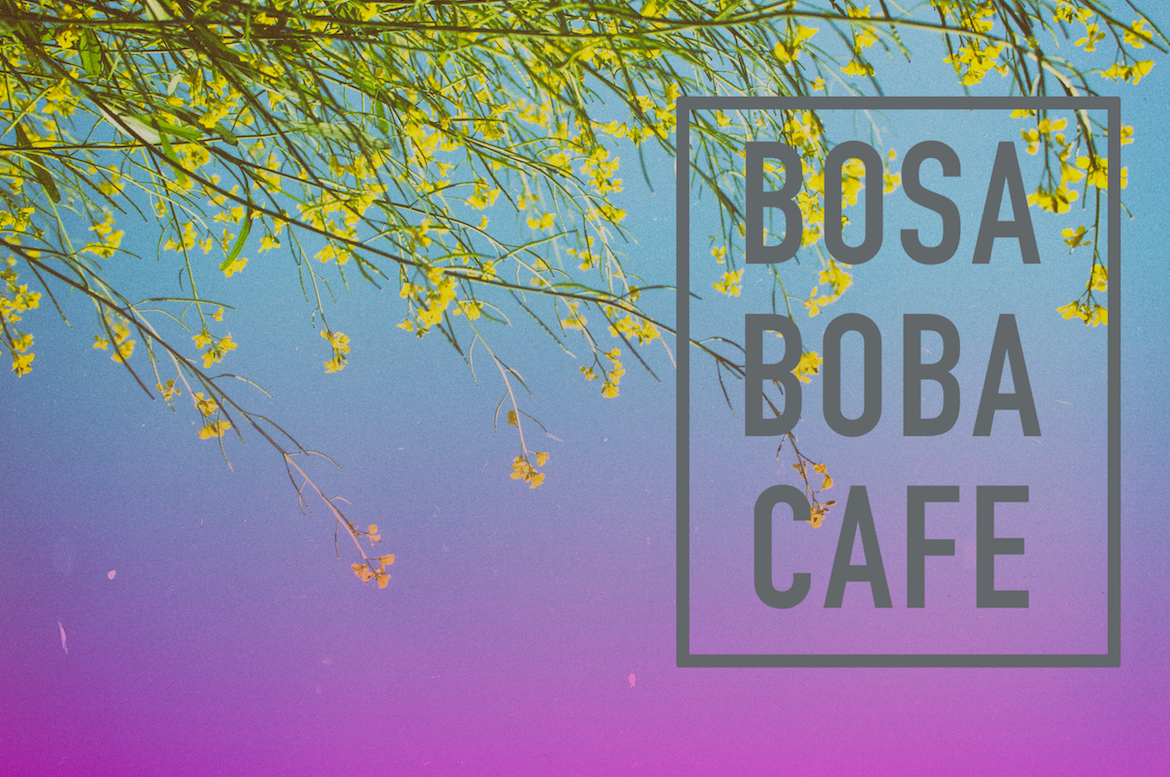
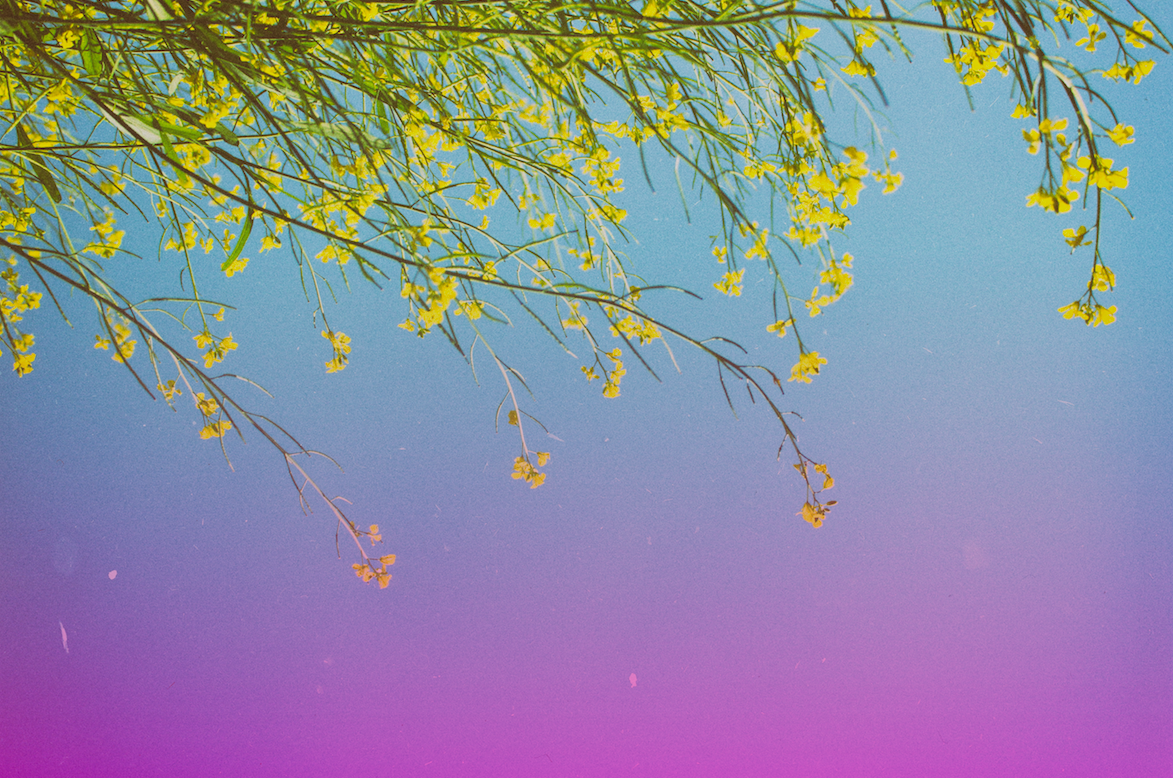
switch to fontawesome

diff --git a/index.html b/index.html
@@ -7,7 +7,6 @@
 
 	<link href="https://maxcdn.bootstrapcdn.com/font-awesome/4.7.0/css/font-awesome.min.css" rel="stylesheet">
 
-
 	<link rel="stylesheet" type="text/css" href="https://cdnjs.cloudflare.com/ajax/libs/normalize/6.0.0/normalize.min.css"/>
 	<link type="text/css" href="style.css" rel="stylesheet"/>    
 
@@ -32,6 +31,7 @@
 	</nav>
 
 	<div id="about">
+		<img src="images/bbclogo.png" alt="bbclogo" id="bbclogomini">
 		<p>
 			Lorem ipsum dolor sit amet, consectetur adipiscing elit. Praesent fermentum vel sem quis eleifend. Ut gravida massa non euismod mollis. Fusce suscipit quam eu dolor gravida, id dictum nisl porta. Cras at metus vehicula, tempus enim rhoncus, interdum ipsum. Fusce egestas dictum ex et pharetra. Sed at sapien malesuada, sagittis sapien lacinia, viverra tortor. Donec imperdiet porta neque, a egestas leo interdum vitae. Aliquam porttitor eu purus nec molestie. Nam sed pharetra purus, id eleifend eros. Fusce facilisis risus nisi, vitae tincidunt sapien viverra at. Etiam porttitor orci gravida bibendum condimentum. Donec porta rhoncus justo eget fermentum. Mauris pellentesque ligula justo, sed facilisis urna molestie id. Aliquam leo dolor, sagittis at porttitor vitae, vestibulum a eros.
 			<br><br>
@@ -43,17 +43,16 @@
 		<div id="map"></div>
 	</div>
 
-	<footer>
-		<span id="copyright">
-			Bosa Boba Cafe | 3355 Spring Mountain Rd Suite 35 | Las Vegas | NV | 89102 | © 2017 B.B.C.
-		</span>
+	<div id="socialBar">
+		<a href="https://www.facebook.com/bosabobacafe/" target="new" ><i class="fa fa-facebook fa-2x social" aria-hidden="true"></i></a>
+		<a href="https://www.yelp.com/biz/bosa-boba-cafe-las-vegas" target="new" ><i class="fa fa-yelp fa-2x social" aria-hidden="true"></i></a>
+		<a href="https://www.instagram.com/bbc_lasvegas/" target="new" ><i class="fa fa-instagram fa-2x social" aria-hidden="true"></i></a>
+	</div>
 
-		<span id="socialBar">
-			<a href="https://www.facebook.com/bosabobacafe/" target="new" ><img class="social" src="images/facebook.png"></a>
-			<a href="https://www.yelp.com/biz/bosa-boba-cafe-las-vegas" target="new" ><img class="social" src="images/yelp.png"></a>
-			<a href="https://www.instagram.com/bbc_lasvegas/" target="new" ><img class="social" src="images/instagram.png"></a>
-			<a href="https://www.square.com/" target="new" ><img  class="social" src="images/squre.png"></a>
-		</span>
+	<footer>
+		<div id="copyright">
+			Bosa Boba Cafe <br> 3355 Spring Mountain Rd Suite 35 <br> Las Vegas, NV 89102 <br> © 2017 B.B.C.
+		</div>
 	</footer>
 
 	<!-- jQuery -->

diff --git a/style.css b/style.css
@@ -9,19 +9,21 @@ a{
 }
 
 body{
-	height: 201vh;
+	box-sizing: border-box;
+	margin: auto 0;
 	background-color: #AF6FC1;
 }
 
 #heroImg{
+	position: fixed;
 	margin-top: -100px;
     height: 800px;
-    width: 95.8%;
-    background: url('images/hero2.png');
+    width: 100%;
+    background: url('images/hero.png');
     background-size: cover;
-   	transform: scale(1.1); 
 }
 
+/* logos */
 #bbclogo{
 	float: right;
 	margin-top: 170px;
@@ -40,13 +42,14 @@ body{
 	display: none;
 }
 
+/* navbar */
 #nav{
+	position: relative; 
+	z-index: 150;
 	background-color: #63676A;
-	opacity: 0.98;
-	width: 95.8%;
+	width: 100%;
 	height: 65px;
 	margin-top: 20px;
-	transform: scale(1.1);
 }
 
 #mainNav{
@@ -71,6 +74,7 @@ body{
 	color: #B7B8B3; 
 }
 
+/* classes */
 .selected{
 	color: #B7B8B3 !important;
 	border-bottom: 3px solid #B7B8B3;
@@ -82,89 +86,45 @@ body{
 	pointer-events:none;
 }
 
-.bar{
-	background-color: #908C81;
-	height: 2px;
-	margin-bottom: 10px;
-}
-
+/* about */
 #about{
-	height: 67vh;
+	position: relative;
 	font-family: arial;
 	color: #D9D6CF;
 	text-align: justify;
 	padding: 50px;
 	font-size: 25px;
+	background-color: #AF6FC1;
+	/* width: 100%; */
 }
 
+/* google maps */
 #map {
     height: 300px;
     width: 30%;
+    margin-bottom: 25px; 
 }
 
-
-/* #press{
-	font-family: arial;
-	color: #D9D6CF;
-	text-align: left;
-	height: 68vh;
-	padding: 75px;
-	padding-top: 5px;
-}
-
-#location{
-
-}
-
-#press h1{
-	color: #D9D6CF;
-	margin-bottom: 5px;
-}
-
-article{
-	background-color: #908C81;
-	padding: ;
-}
-
-.fa-calendar{
-	margin-left: 5px;
-}
-
-.date{
-	margin-left: 5px;
-	font-size: 12px;
-}
-
-.post_summary{
-	margin-left: 5px;
-	margin-top: 15px;
-	font-size: 18px;
-} */
-
-footer {
-	width: 95%;	
-	margin: 0 auto;
-	margin-top: 15px;
-	border-top: 3px solid #CDC3B7; 
-}
-
-#copyright{
-	float: left;
-	font-family: arial;
-	font-size: 14px;
-	color: #CDC3B7;
-	padding-top: 25px;
-	margin-left: 18px;
-}
-
+/* social media */
 #socialBar{
-	float: right;
- 	margin-top: 20px;
- 	margin-right: -15px;
+	margin-bottom: 25px; 
 }
 
 .social{
-	height: 30px;
-	width: 30px;
-	margin-right: 40px; 
+	/* margin-right: 20px;  */
+}
+
+/* footer */
+footer {
+	width: 95%;	
+	margin: 0 auto;
+	border-top: 2px solid #CDC3B7;
+}
+
+#copyright{
+	font-family: arial;
+	font-size: 12px;
+	color: #CDC3B7;
+	text-align: center;
+	margin-top: 10px;
 }

diff --git a/js/script.js b/js/script.js
@@ -53,7 +53,7 @@ $('#home-toggle').click(function(){
 
 $('#menu-toggle').click(function(){
 	$('#bbclogo').fadeOut();
-	$('#bbclogomini').delay(1000).fadeIn(2000);
+	$('#bbclogomini').delay(1000).fadeIn(2500);
 });
 
 $('#gallery-toggle').click(function(){
